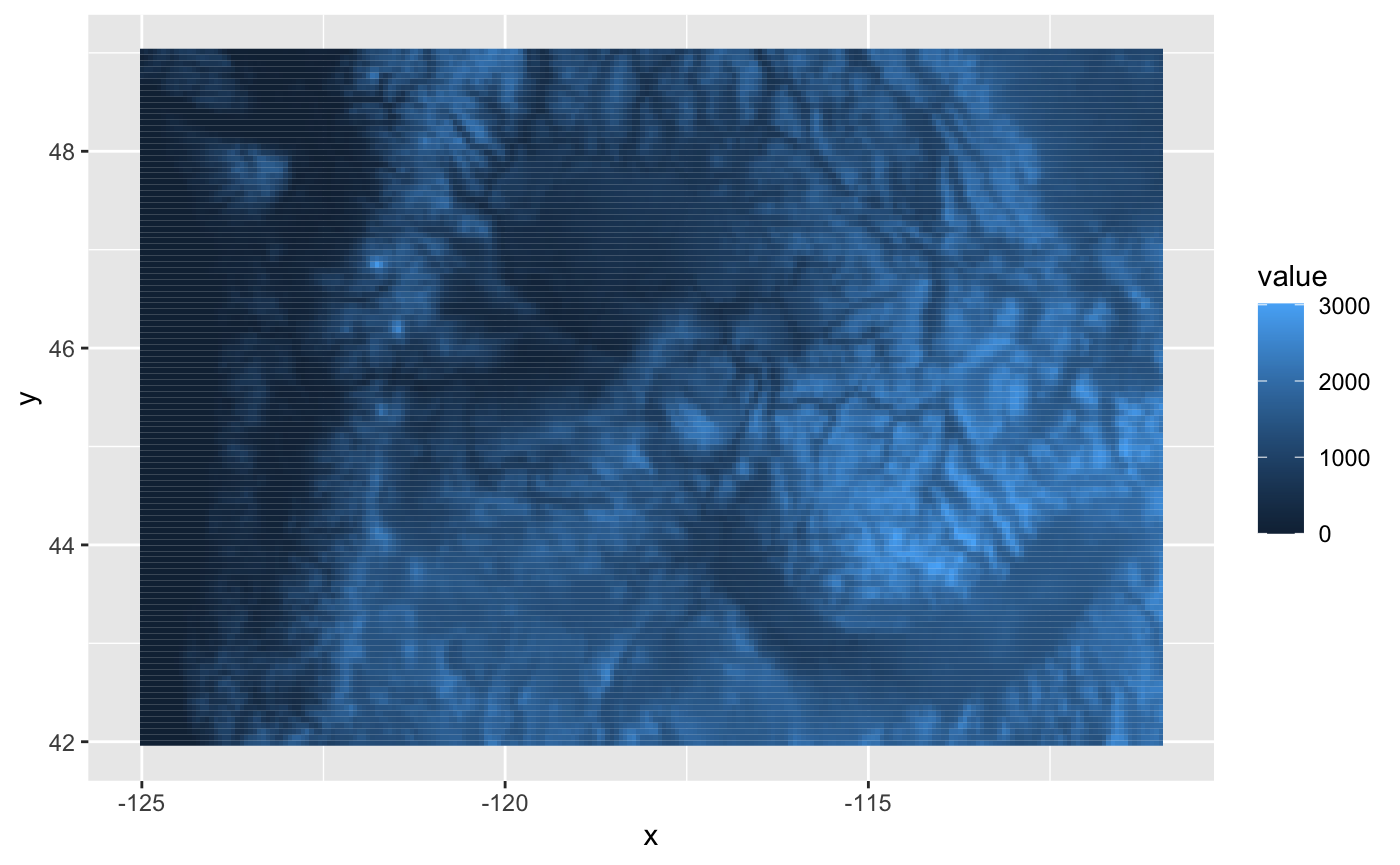
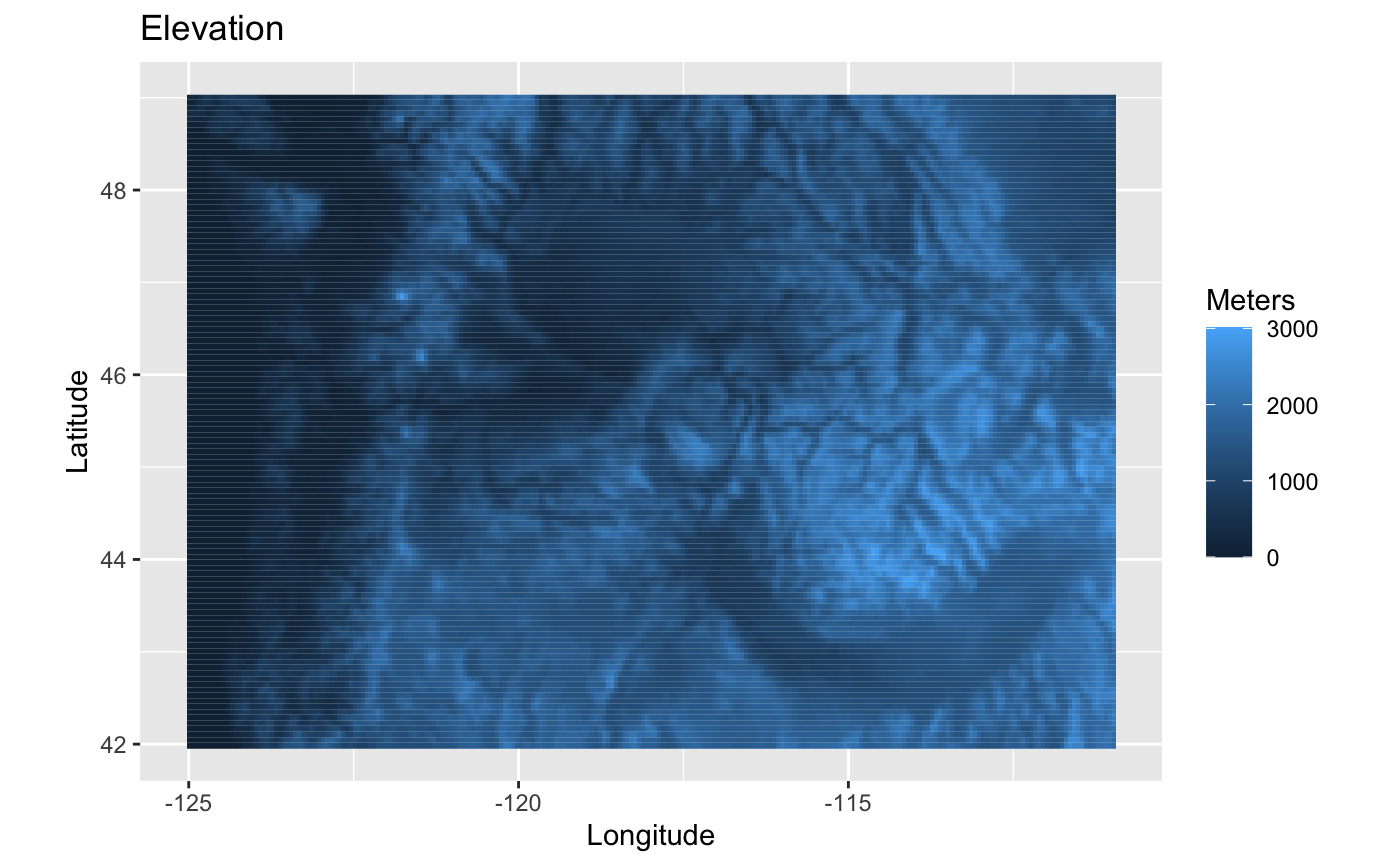
more standard plot options

diff --git a/docs/reference/plot_base.html b/docs/reference/plot_base.html
@@ -10,7 +10,6 @@
 
 
 <!-- jquery -->
-<<<<<<< HEAD
 <script src="https://cdnjs.cloudflare.com/ajax/libs/jquery/3.4.1/jquery.min.js" integrity="sha256-CSXorXvZcTkaix6Yvo6HppcZGetbYMGWSFlBw8HfCJo=" crossorigin="anonymous"></script>
 <!-- Bootstrap -->
 
@@ -32,25 +31,6 @@
 <!-- headroom.js -->
 <script src="https://cdnjs.cloudflare.com/ajax/libs/headroom/0.11.0/headroom.min.js" integrity="sha256-AsUX4SJE1+yuDu5+mAVzJbuYNPHj/WroHuZ8Ir/CkE0=" crossorigin="anonymous"></script>
 <script src="https://cdnjs.cloudflare.com/ajax/libs/headroom/0.11.0/jQuery.headroom.min.js" integrity="sha256-ZX/yNShbjqsohH1k95liqY9Gd8uOiE1S4vZc+9KQ1K4=" crossorigin="anonymous"></script>
-=======
-<script src="https://cdnjs.cloudflare.com/ajax/libs/jquery/3.3.1/jquery.min.js" integrity="sha256-FgpCb/KJQlLNfOu91ta32o/NMZxltwRo8QtmkMRdAu8=" crossorigin="anonymous"></script>
-<!-- Bootstrap -->
-
-<link rel="stylesheet" href="https://cdnjs.cloudflare.com/ajax/libs/twitter-bootstrap/3.3.7/css/bootstrap.min.css" integrity="sha256-916EbMg70RQy9LHiGkXzG8hSg9EdNy97GazNG/aiY1w=" crossorigin="anonymous" />
-
-<script src="https://cdnjs.cloudflare.com/ajax/libs/twitter-bootstrap/3.3.7/js/bootstrap.min.js" integrity="sha256-U5ZEeKfGNOja007MMD3YBI0A3OSZOQbeG6z2f2Y0hu8=" crossorigin="anonymous"></script>
-
-<!-- Font Awesome icons -->
-<link rel="stylesheet" href="https://cdnjs.cloudflare.com/ajax/libs/font-awesome/5.7.1/css/all.min.css" integrity="sha256-nAmazAk6vS34Xqo0BSrTb+abbtFlgsFK7NKSi6o7Y78=" crossorigin="anonymous" />
-<link rel="stylesheet" href="https://cdnjs.cloudflare.com/ajax/libs/font-awesome/5.7.1/css/v4-shims.min.css" integrity="sha256-6qHlizsOWFskGlwVOKuns+D1nB6ssZrHQrNj1wGplHc=" crossorigin="anonymous" />
-
-<!-- clipboard.js -->
-<script src="https://cdnjs.cloudflare.com/ajax/libs/clipboard.js/2.0.4/clipboard.min.js" integrity="sha256-FiZwavyI2V6+EXO1U+xzLG3IKldpiTFf3153ea9zikQ=" crossorigin="anonymous"></script>
-
-<!-- headroom.js -->
-<script src="https://cdnjs.cloudflare.com/ajax/libs/headroom/0.9.4/headroom.min.js" integrity="sha256-DJFC1kqIhelURkuza0AvYal5RxMtpzLjFhsnVIeuk+U=" crossorigin="anonymous"></script>
-<script src="https://cdnjs.cloudflare.com/ajax/libs/headroom/0.9.4/jQuery.headroom.min.js" integrity="sha256-ZX/yNShbjqsohH1k95liqY9Gd8uOiE1S4vZc+9KQ1K4=" crossorigin="anonymous"></script>
->>>>>>> 9d36b93a28a7356b6c4820c36179df76c66bb1ce
 
 <!-- pkgdown -->
 <link href="../pkgdown.css" rel="stylesheet">
@@ -61,10 +41,6 @@
 
 <meta property="og:title" content="Creates an empty plot — plot_base" />
 <meta property="og:description" content="Creates an empty plot" />
-<<<<<<< HEAD
-=======
-<meta name="twitter:card" content="summary" />
->>>>>>> 9d36b93a28a7356b6c4820c36179df76c66bb1ce
 
 
 
@@ -82,11 +58,7 @@
 
   </head>
 
-<<<<<<< HEAD
   <body data-spy="scroll" data-target="#toc">
-=======
-  <body>
->>>>>>> 9d36b93a28a7356b6c4820c36179df76c66bb1ce
     <div class="container template-reference-topic">
       <header>
       <div class="navbar navbar-default navbar-fixed-top" role="navigation">
@@ -100,11 +72,7 @@
       </button>
       <span class="navbar-brand">
         <a class="navbar-link" href="../index.html">WRFmet</a>
-<<<<<<< HEAD
-        <span class="version label label-default" data-toggle="tooltip" data-placement="bottom" title="Released version">0.1.1</span>
-=======
         <span class="version label label-default" data-toggle="tooltip" data-placement="bottom" title="Released version">0.1.2</span>
->>>>>>> 9d36b93a28a7356b6c4820c36179df76c66bb1ce
       </span>
     </div>
 
@@ -140,11 +108,7 @@
       </ul>
       <ul class="nav navbar-nav navbar-right">
         <li>
-<<<<<<< HEAD
   <a href="https://github.com/MazamaScience/WRFmet/">
-=======
-  <a href="https://github.com/MazamaScience/WRFmet">
->>>>>>> 9d36b93a28a7356b6c4820c36179df76c66bb1ce
     <span class="fab fa fab fa-github fa-lg"></span>
      
   </a>
@@ -175,7 +139,7 @@
   <span class='kw'>title</span> <span class='kw'>=</span> <span class='kw'>NULL</span>,
   <span class='kw'>xlab</span> <span class='kw'>=</span> <span class='st'>"Longitude"</span>,
   <span class='kw'>ylab</span> <span class='kw'>=</span> <span class='st'>"Latitude"</span>,
-  <span class='kw'>color</span> <span class='kw'>=</span> <span class='kw'>NULL</span>,
+  <span class='kw'>clab</span> <span class='kw'>=</span> <span class='kw'>NULL</span>,
   <span class='kw'>flab</span> <span class='kw'>=</span> <span class='kw'>NULL</span>,
   <span class='kw'>xlim</span> <span class='kw'>=</span> <span class='kw'>NULL</span>,
   <span class='kw'>ylim</span> <span class='kw'>=</span> <span class='kw'>NULL</span>,
@@ -198,7 +162,7 @@
       <td><p>y-axis label.</p></td>
     </tr>
     <tr>
-      <th>color</th>
+      <th>clab</th>
       <td><p>Label for color value in legend.</p></td>
     </tr>
     <tr>
@@ -215,32 +179,19 @@
     </tr>
     <tr>
       <th>ratio</th>
-      <td><p>Plot dimensions ratio (x/y).</p></td>
+      <td><p>Plot ratio.</p></td>
     </tr>
     </table>
 
     <h2 class="hasAnchor" id="value"><a class="anchor" href="#value"></a>Value</h2>
 
-<<<<<<< HEAD
-    <p>A GGPlot object.</p>
+    <p>A ggplot object.</p>
 
   </div>
   <div class="col-md-3 hidden-xs hidden-sm" id="pkgdown-sidebar">
     <nav id="toc" data-toggle="toc" class="sticky-top">
       <h2 data-toc-skip>Contents</h2>
     </nav>
-=======
-    <p>A ggplot object.</p>
-
-  </div>
-  <div class="col-md-3 hidden-xs hidden-sm" id="sidebar">
-    <h2>Contents</h2>
-    <ul class="nav nav-pills nav-stacked">
-      <li><a href="#arguments">Arguments</a></li>
-      <li><a href="#value">Value</a></li>
-    </ul>
-
->>>>>>> 9d36b93a28a7356b6c4820c36179df76c66bb1ce
   </div>
 </div>
 
@@ -251,11 +202,7 @@
 </div>
 
 <div class="pkgdown">
-<<<<<<< HEAD
   <p>Site built with <a href="https://pkgdown.r-lib.org/">pkgdown</a> 1.5.1.</p>
-=======
-  <p>Site built with <a href="https://pkgdown.r-lib.org/">pkgdown</a> 1.4.1.</p>
->>>>>>> 9d36b93a28a7356b6c4820c36179df76c66bb1ce
 </div>
 
       </footer>

diff --git a/docs/reference/plot_raster.html b/docs/reference/plot_raster.html
@@ -135,7 +135,19 @@
     <p>Creates a plot for a single raster layer</p>
     </div>
 
-    <pre class="usage"><span class='fu'>plot_raster</span>(<span class='kw'>raster</span> <span class='kw'>=</span> <span class='kw'>NULL</span>)</pre>
+    <pre class="usage"><span class='fu'>plot_raster</span>(
+  <span class='kw'>raster</span> <span class='kw'>=</span> <span class='kw'>NULL</span>,
+  <span class='kw'>fillLow</span> <span class='kw'>=</span> <span class='st'>"#132c43"</span>,
+  <span class='kw'>fillHigh</span> <span class='kw'>=</span> <span class='st'>"#55b2f8"</span>,
+  <span class='kw'>fillNa</span> <span class='kw'>=</span> <span class='st'>"transparent"</span>,
+  <span class='kw'>title</span> <span class='kw'>=</span> <span class='kw'>NULL</span>,
+  <span class='kw'>xlab</span> <span class='kw'>=</span> <span class='kw'>NULL</span>,
+  <span class='kw'>ylab</span> <span class='kw'>=</span> <span class='kw'>NULL</span>,
+  <span class='kw'>flab</span> <span class='kw'>=</span> <span class='kw'>NULL</span>,
+  <span class='kw'>xlim</span> <span class='kw'>=</span> <span class='kw'>NULL</span>,
+  <span class='kw'>ylim</span> <span class='kw'>=</span> <span class='kw'>NULL</span>,
+  <span class='kw'>ratio</span> <span class='kw'>=</span> <span class='kw'>NULL</span>
+)</pre>
 
     <h2 class="hasAnchor" id="arguments"><a class="anchor" href="#arguments"></a>Arguments</h2>
     <table class="ref-arguments">
@@ -143,6 +155,46 @@
     <tr>
       <th>raster</th>
       <td><p>A RasterLayer.</p></td>
+    </tr>
+    <tr>
+      <th>fillLow</th>
+      <td><p>Color for lowest raster value.</p></td>
+    </tr>
+    <tr>
+      <th>fillHigh</th>
+      <td><p>Color for highest raster value.</p></td>
+    </tr>
+    <tr>
+      <th>fillNa</th>
+      <td><p>Color for na raster values.</p></td>
+    </tr>
+    <tr>
+      <th>title</th>
+      <td><p>Plot title.</p></td>
+    </tr>
+    <tr>
+      <th>xlab</th>
+      <td><p>x-axis label.</p></td>
+    </tr>
+    <tr>
+      <th>ylab</th>
+      <td><p>y-axis label.</p></td>
+    </tr>
+    <tr>
+      <th>flab</th>
+      <td><p>Label for fill value in legend.</p></td>
+    </tr>
+    <tr>
+      <th>xlim</th>
+      <td><p>A vector of coordinate longitude bounds.</p></td>
+    </tr>
+    <tr>
+      <th>ylim</th>
+      <td><p>A vector of coordinate latitude bounds.</p></td>
+    </tr>
+    <tr>
+      <th>ratio</th>
+      <td><p>Plot ratio.</p></td>
     </tr>
     </table>
 

diff --git a/docs/articles/WRFmet.html b/docs/articles/WRFmet.html
@@ -167,13 +167,13 @@ max values :     3571.1672,      317.7452 </code></pre>
 <p><em>NOTE: In order to build this vignette, this plot will display an example raster provided by WRFmet package “example_PNW”.</em></p>
 <div class="sourceCode" id="cb12"><html><body><pre class="r"><span class="fu"><a href="https://rdrr.io/r/base/library.html">library</a></span>(<span class="no">WRFmet</span>)
 
-<span class="fu"><a href="../reference/plot_raster.html">plot_raster</a></span>(<span class="kw">raster</span> <span class="kw">=</span> <span class="kw pkg">WRFmet</span><span class="kw ns">::</span><span class="no"><a href="../reference/example_PNW.html">example_PNW</a></span>$<span class="no">HGT</span>)</pre></body></html></div>
+<span class="fu"><a href="../reference/plot_raster.html">plot_raster</a></span>(
+  <span class="kw">raster</span> <span class="kw">=</span> <span class="kw pkg">WRFmet</span><span class="kw ns">::</span><span class="no"><a href="../reference/example_PNW.html">example_PNW</a></span>$<span class="no">HGT</span>,
+  <span class="kw">title</span> <span class="kw">=</span> <span class="st">"Elevation"</span>,
+  <span class="kw">flab</span> <span class="kw">=</span> <span class="st">"Meters"</span>,
+  <span class="kw">ratio</span> <span class="kw">=</span> <span class="fl">1.4</span>
+)</pre></body></html></div>
 <p><img src="WRFmet_files/figure-html/unnamed-chunk-1-1.png" width="700"></p>
-<div class="sourceCode" id="cb13"><html><body><pre class="r">#plot_raster(
-#  raster = example_PNW$HGT #, # Must provide a single layer
-  #title = "Elevation",
-  #ratio = 1.4
-#)</pre></body></html></div>
 <p>…</p>
 <p>These plots are actually preset combinations of various building-block “layers”. Custom plots can be built by stacking these layers which function similar to GGPlot’s <code>geom_*</code> elements. This process is covered in further detail in the “Static Layered Plots” article.</p>
 </div>

diff --git a/docs/news/index.html b/docs/news/index.html
@@ -133,7 +133,7 @@
 <h1 class="page-header" data-toc-text="0.1.2">
 <a href="#wrfmet-012" class="anchor"></a>WRFmet 0.1.2</h1>
 <ul>
-<li>First pass at standard plotting functions <code>plot_base()</code> and <code><a href="../reference/plot_raster.html">plot_raster()</a></code>.</li>
+<li>First pass at standard plotting functions <code><a href="../reference/plot_base.html">plot_base()</a></code> and <code><a href="../reference/plot_raster.html">plot_raster()</a></code>.</li>
 <li>Added <code>layer_~()</code> functions to build up ggplot plots: <code><a href="../reference/layer_raster.html">layer_raster()</a></code>, <code><a href="../reference/layer_spPolys.html">layer_spPolys()</a></code>, <code><a href="../reference/layer_states.html">layer_states()</a></code>, <code><a href="../reference/layer_points.html">layer_points()</a></code>, <code><a href="../reference/layer_vectorField.html">layer_vectorField()</a></code>.</li>
 <li>Added <code><a href="../reference/wrf_download.html">wrf_download()</a></code> and <code><a href="../reference/wrf_downloaded.html">wrf_downloaded()</a></code>.</li>
 <li>Added <code><a href="../reference/wrf_latestModelRun.html">wrf_latestModelRun()</a></code> to list available model runs.</li>

diff --git a/docs/reference/index.html b/docs/reference/index.html
@@ -205,6 +205,12 @@
       </tr><tr>
         
         <td>
+          <p><code><a href="plot_base.html">plot_base()</a></code> </p>
+        </td>
+        <td><p>Creates an empty plot</p></td>
+      </tr><tr>
+        
+        <td>
           <p><code><a href="plot_raster.html">plot_raster()</a></code> </p>
         </td>
         <td><p>Creates a plot for a single raster layer</p></td>
